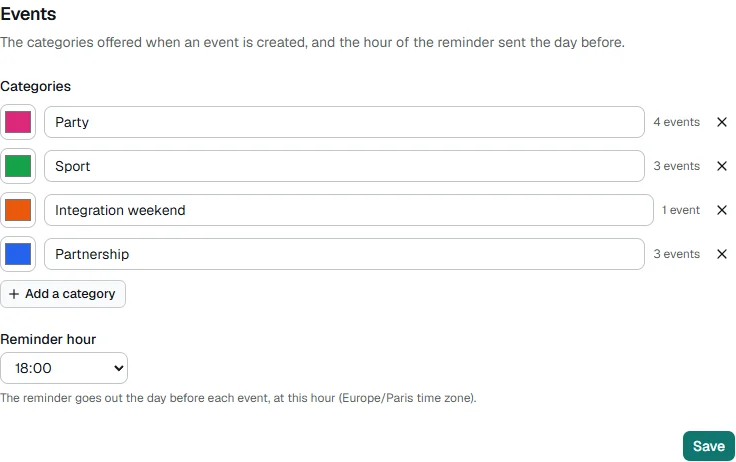
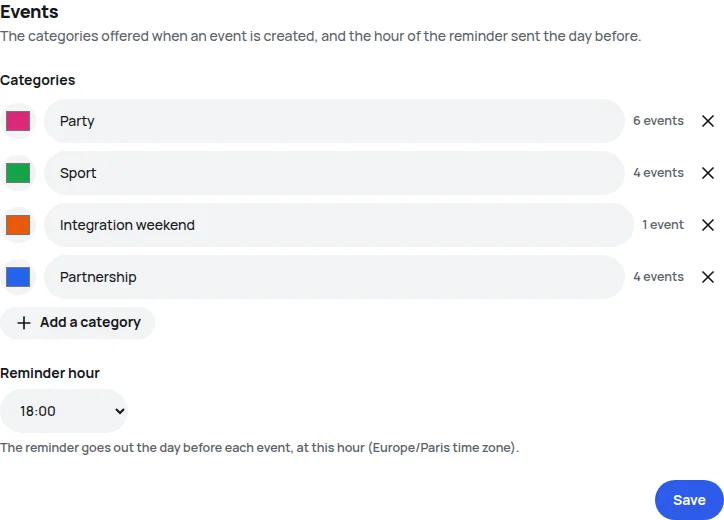
docs: screenshots of the new interface

diff --git a/qa/design-preview.ts b/qa/design-preview.ts
@@ -5,10 +5,11 @@
  *
  *   eval "$(sh qa/platform.sh env)"
  *   QA_PREVIEW_DIR=design-ref/captures npx tsx qa/design-preview.ts [--name dashboard] [--path /en/dashboard] [--as validator]
- *                                                                    [--label teal] [--extras]
+ *                                                                    [--label teal] [--extras] [--viewport]
  *
  * The accent is the platform's (`QA_ACCENT=#E4572E sh qa/platform.sh up …`); `--label` names it in the file names.
- * `--extras` also opens the account menu, the "More" and "Create" sheets and the keyboard focus.
+ * `--extras` also opens the account menu, the "More" and "Create" sheets and the keyboard focus; `--viewport` takes what the screen shows
+ * of a computer instead of the whole page (a page of 300 rows is not a picture).
  */
 import { mkdirSync } from 'node:fs';
 import { join } from 'node:path';
